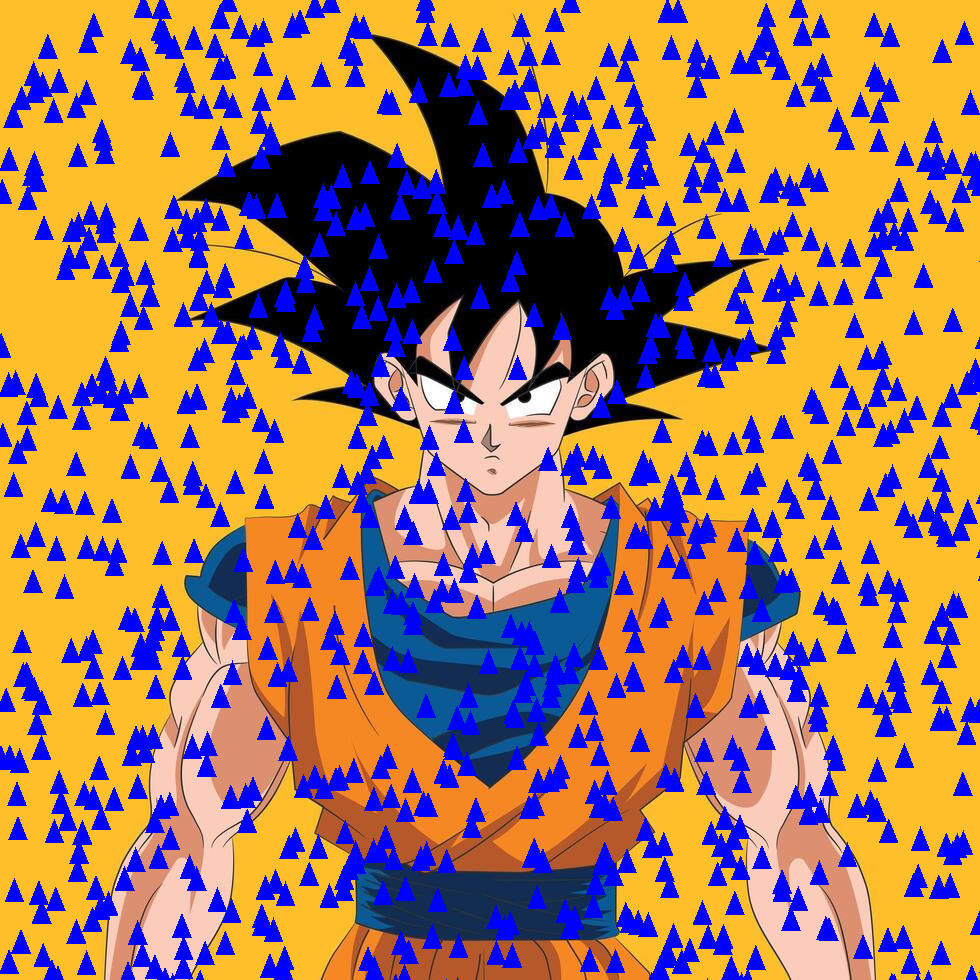
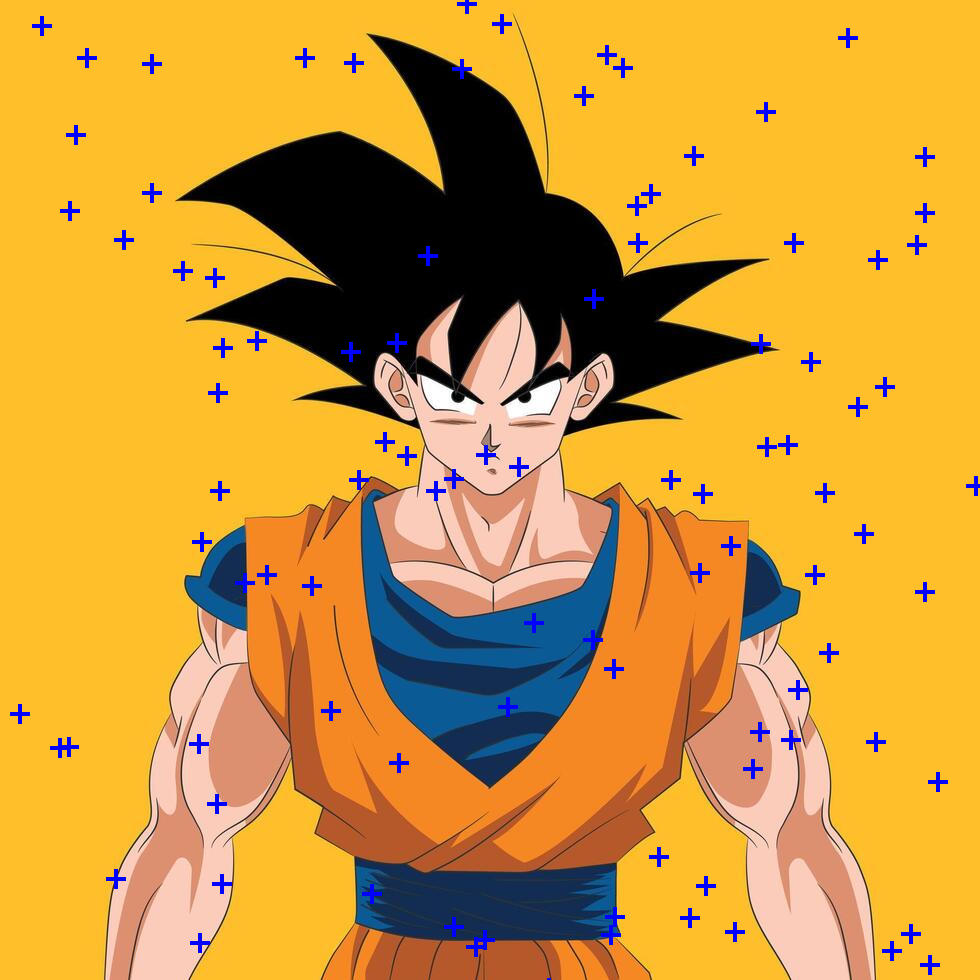
continue image dot add cross

diff --git a/image_dot/src/toml_parse.rs b/image_dot/src/toml_parse.rs
@@ -90,7 +90,8 @@ pub enum ShapeType {
     Circle = 1,
     Triangle = 2,
     Square = 3,
-    Line = 4,
+    Cross = 4,
+    Line = 5,
 }
 
 #[derive(Deserialize)]
@@ -99,6 +100,7 @@ enum ShapeTypeRaw {
     Triangle,
     Circle,
     Square,
+    Cross,
     Line,
 }
 
@@ -106,6 +108,7 @@ impl From<ShapeTypeRaw> for ShapeType {
     fn from(raw: ShapeTypeRaw) -> Self {
         match raw {
             ShapeTypeRaw::Triangle => ShapeType::Triangle,
+            ShapeTypeRaw::Cross => ShapeType::Cross,
             ShapeTypeRaw::Square => ShapeType::Square,
             ShapeTypeRaw::Circle => ShapeType::Circle,
             ShapeTypeRaw::Line => ShapeType::Line,
@@ -128,6 +131,7 @@ pub struct DebugGpuContext {
     pub circle: ShapeConfig,
     pub line: ShapeConfig,
     square: ShapeConfig,
+    cross: ShapeConfig,
 }
 
 impl DebugGpuContext {
@@ -149,6 +153,7 @@ impl DebugGpuContext {
 
     pub fn get_shape_infos(&self) -> &ShapeConfig {
         match self.get_current_shape() {
+            ShapeType::Cross => &self.cross,
             ShapeType::Square => &self.square,
             ShapeType::Circle => &self.circle,
             ShapeType::Triangle => &self.triangle,
@@ -167,6 +172,7 @@ struct DebugGpuContextHelper {
     circle: ShapeConfig,
     line: ShapeConfig,
     square: ShapeConfig,
+    cross: ShapeConfig,
 }
 
 impl<'de> Deserialize<'de> for DebugGpuContext {
@@ -185,6 +191,7 @@ impl<'de> Deserialize<'de> for DebugGpuContext {
             circle: helper.circle,
             line: helper.line,
             square: helper.square,
+			cross: helper.cross
         })
     }
 }

diff --git a/image_dot/src/image_pipeline.rs b/image_dot/src/image_pipeline.rs
@@ -14,6 +14,8 @@ use crate::{
 
 const WORKGROUP_SIZE: u32 = 8;
 
+const NB_POINT: usize = 100;
+
 struct BoundPipeline {
     bind_group: wgpu::BindGroup,
     pipeline: wgpu::ComputePipeline,
@@ -116,7 +118,7 @@ impl ImagePipeline {
             "overlay texture",
         );
 
-        let points = Point::random_points(1000, 1000.0, 1000.0);
+        let points = Point::random_points(NB_POINT, 1000.0, 1000.0);
 
         let params = Params::new(
             ctx.debug_config.get_color(),
